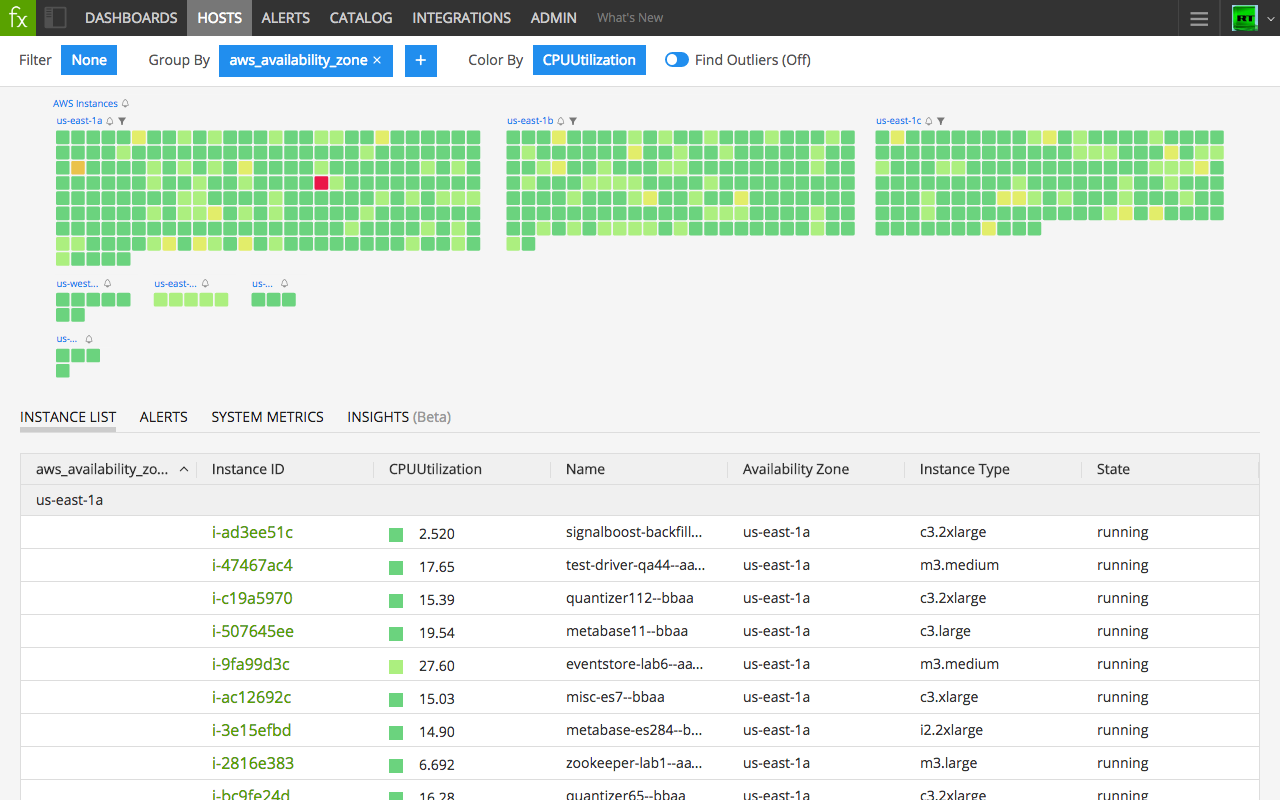
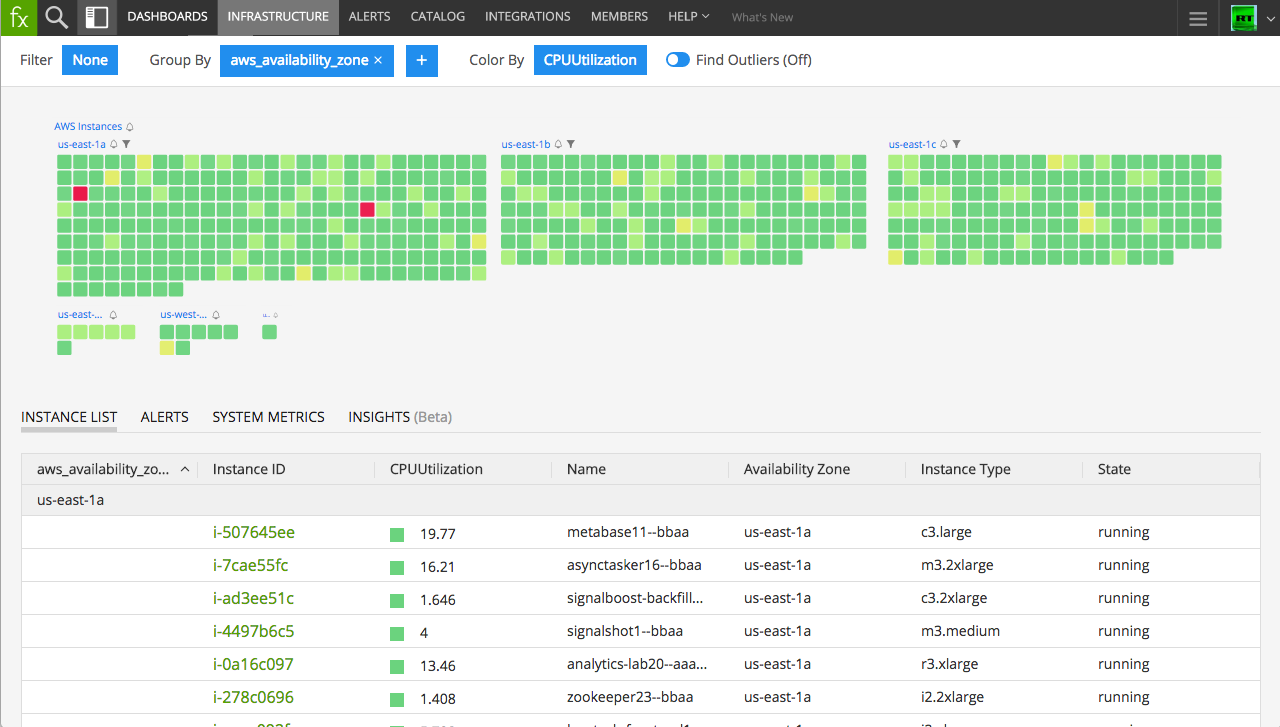
Hosts => Infrastructure

diff --git a/aws-ec2/README.md b/aws-ec2/README.md
@@ -12,9 +12,9 @@ Use SignalFx to monitor Amazon Elastic Compute Cloud (EC2) via [Amazon CloudWatc
 
 #### FEATURES
 
-##### Hosts Page
+##### Infrastructure Page
 
-- **Host Navigator**: On the Hosts page in SignalFx, the Host Navigator visualizes EC2 instances as squares, colored by CloudWatch metrics including CPU, disk, and network. Group and filter instances by AWS metadata like availability zone or service tag in order to discover trends and correlations. [Click here to read more about the Hosts Page](http://docs.signalfx.com/en/latest/built-in-content/infra-nav.html). 
+- **Infrastructure Navigator**: On the Infrastructure page in SignalFx, the Infrastructure Navigator visualizes EC2 instances as squares, colored by CloudWatch metrics including CPU, disk, and network. Group and filter instances by AWS metadata like availability zone or service tag in order to discover trends and correlations. [Click here to read more about the Infrastructure Page](http://docs.signalfx.com/en/latest/built-in-content/infra-nav.html). 
 
   [<img src='./img/hosts_aws_instances.png' width=200px>](./img/hosts_aws_instances.png)
 

diff --git a/aws/README.md b/aws/README.md
@@ -14,7 +14,7 @@ Use SignalFx to monitor AWS services via Amazon CloudWatch. This integration ena
 
 Connecting to CloudWatch allows you to take advantage of SignalFx’s extensive CloudWatch support.
 
-- The SignalFx Hosts page visualizes EC2 instances.
+- The SignalFx Infrastructure page visualizes EC2 instances.
 
   [<img src='./img/hosts_aws.png' width=200px>](./img/hosts_aws.png)
 - SignalFx can sync metadata about your AWS hosts to enrich metrics reported by CloudWatch or the [SignalFx collectd agent](https://github.com/signalfx/integrations/tree/master/collectd)[](sfx_link:sfxcollectd).
